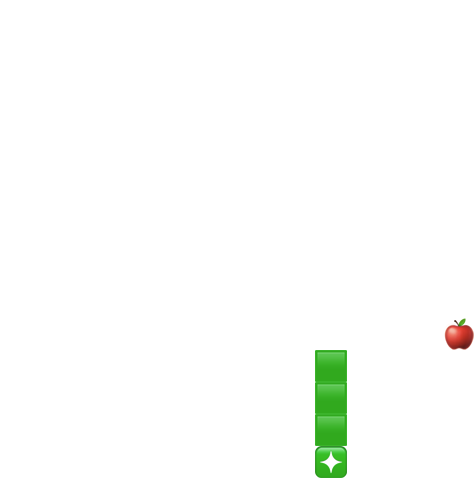
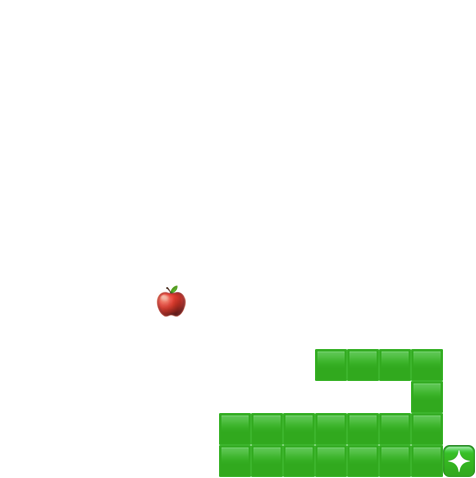
Added gif of gameplay

Changed region(s): [[0.4412, 0.6736, 1.0, 1.0], [0.3235, 0.5858, 0.4118, 0.6736]]

diff --git a/README.md b/README.md
@@ -2,7 +2,7 @@
 
 A Snake Game built with Rust and WebAssembly
 
-![game](img.png "A Screengrab of the game")
+![Game](video.gif)
 
 ## Building
 
